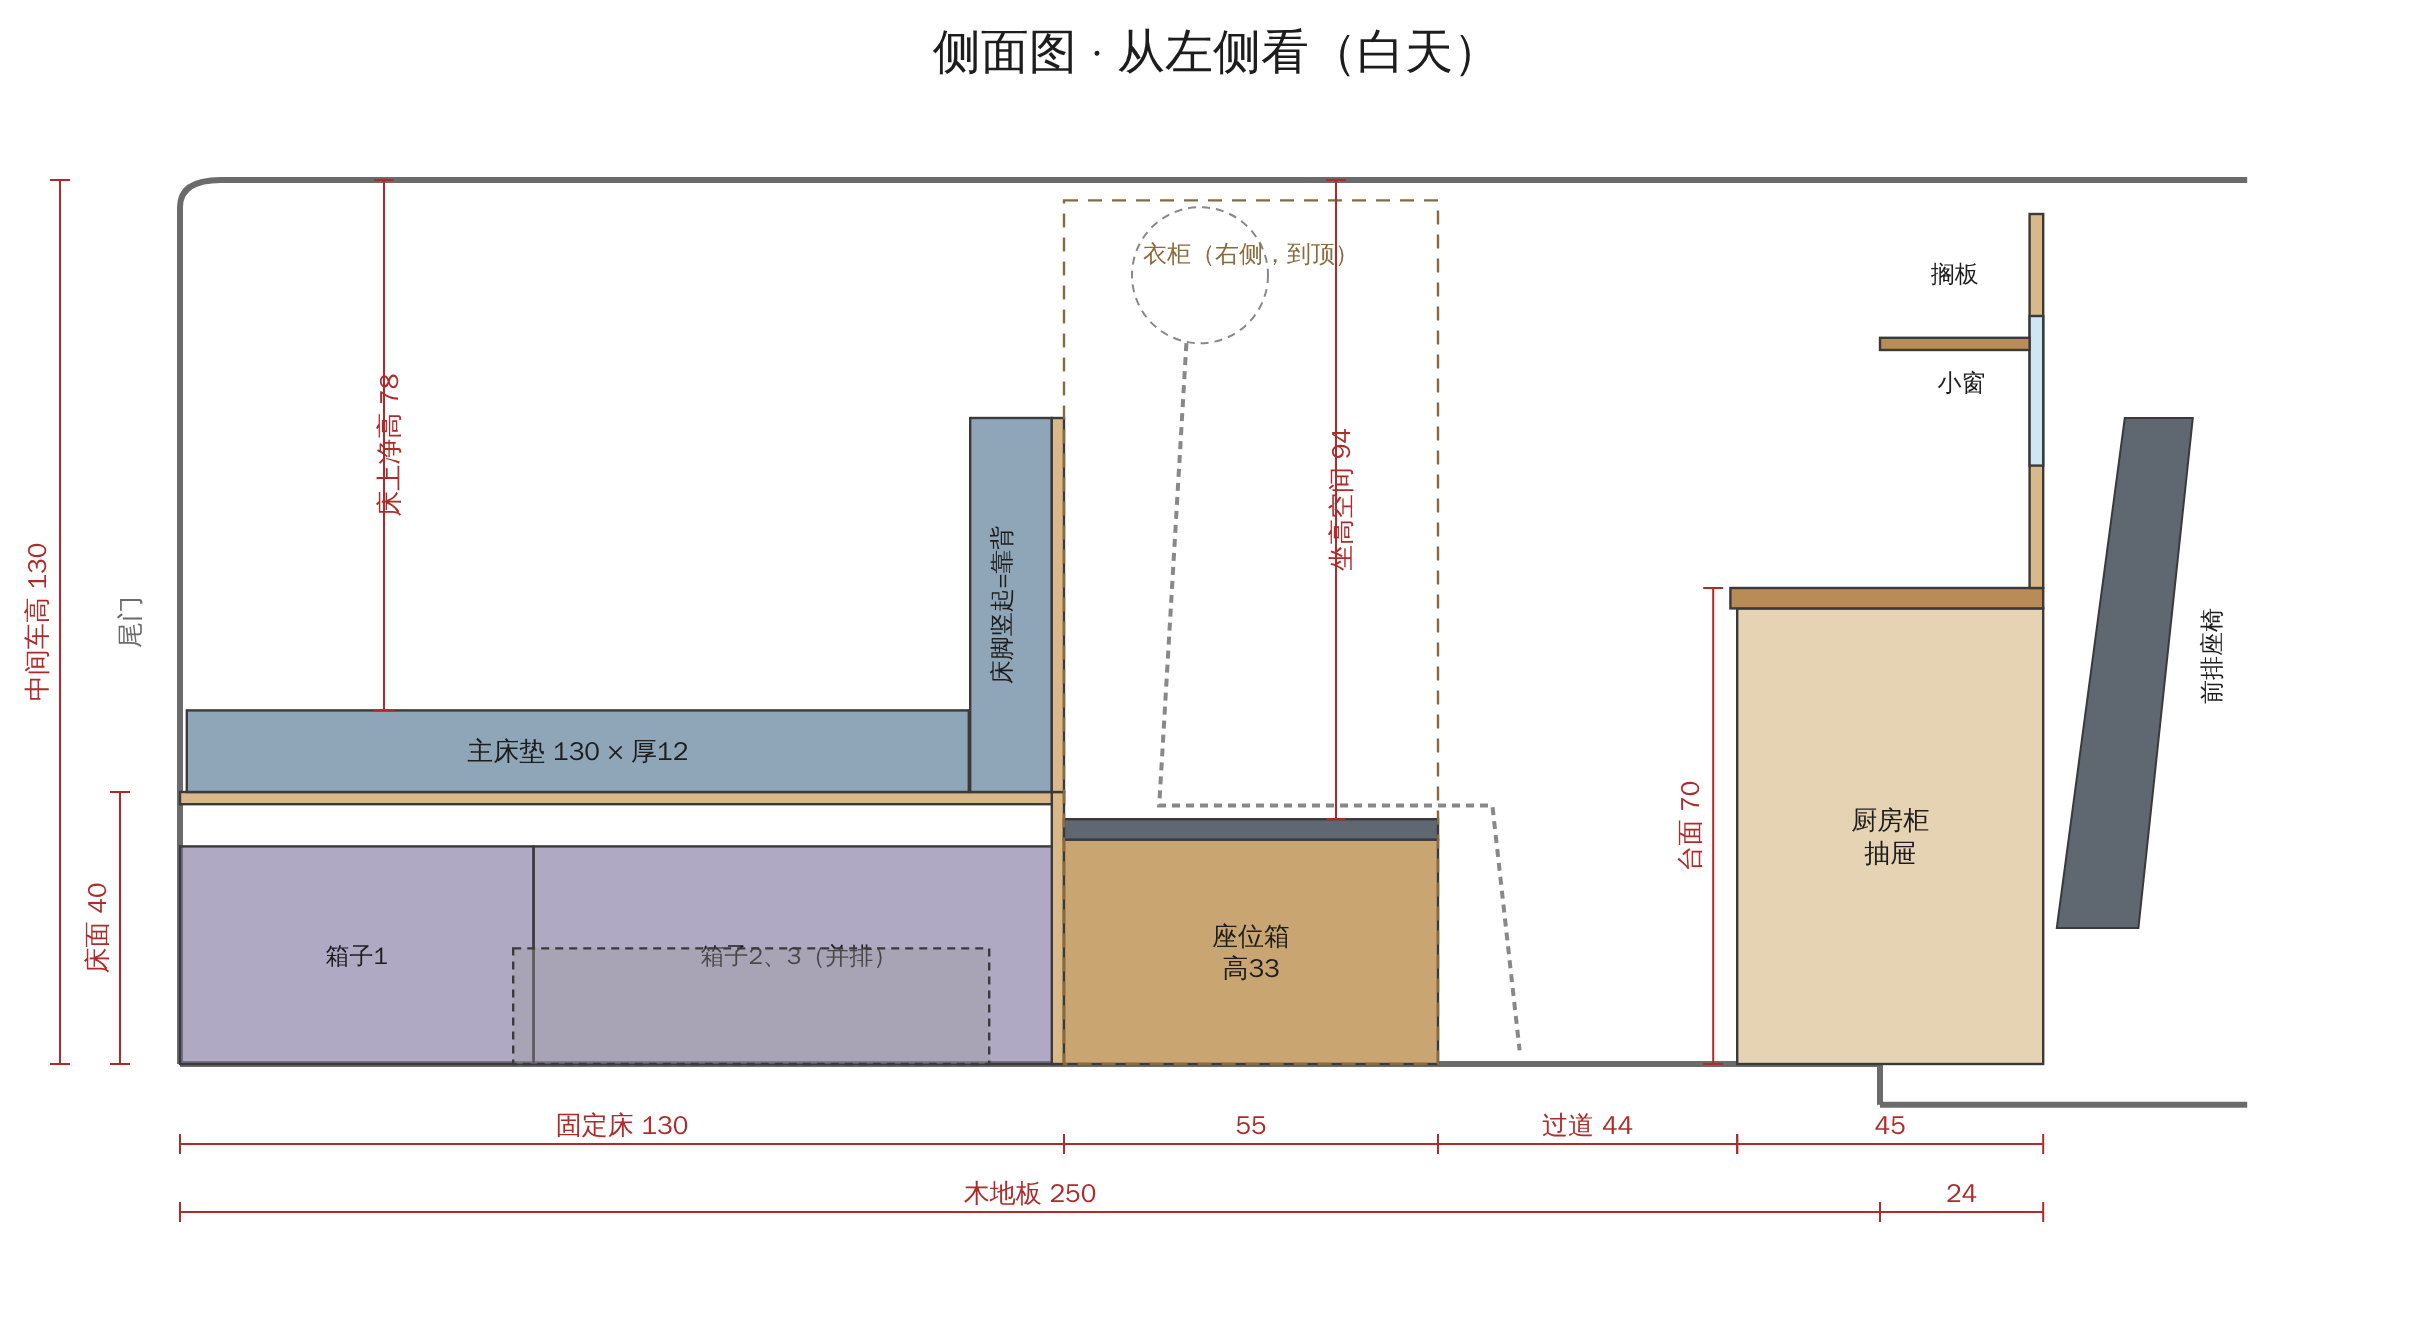
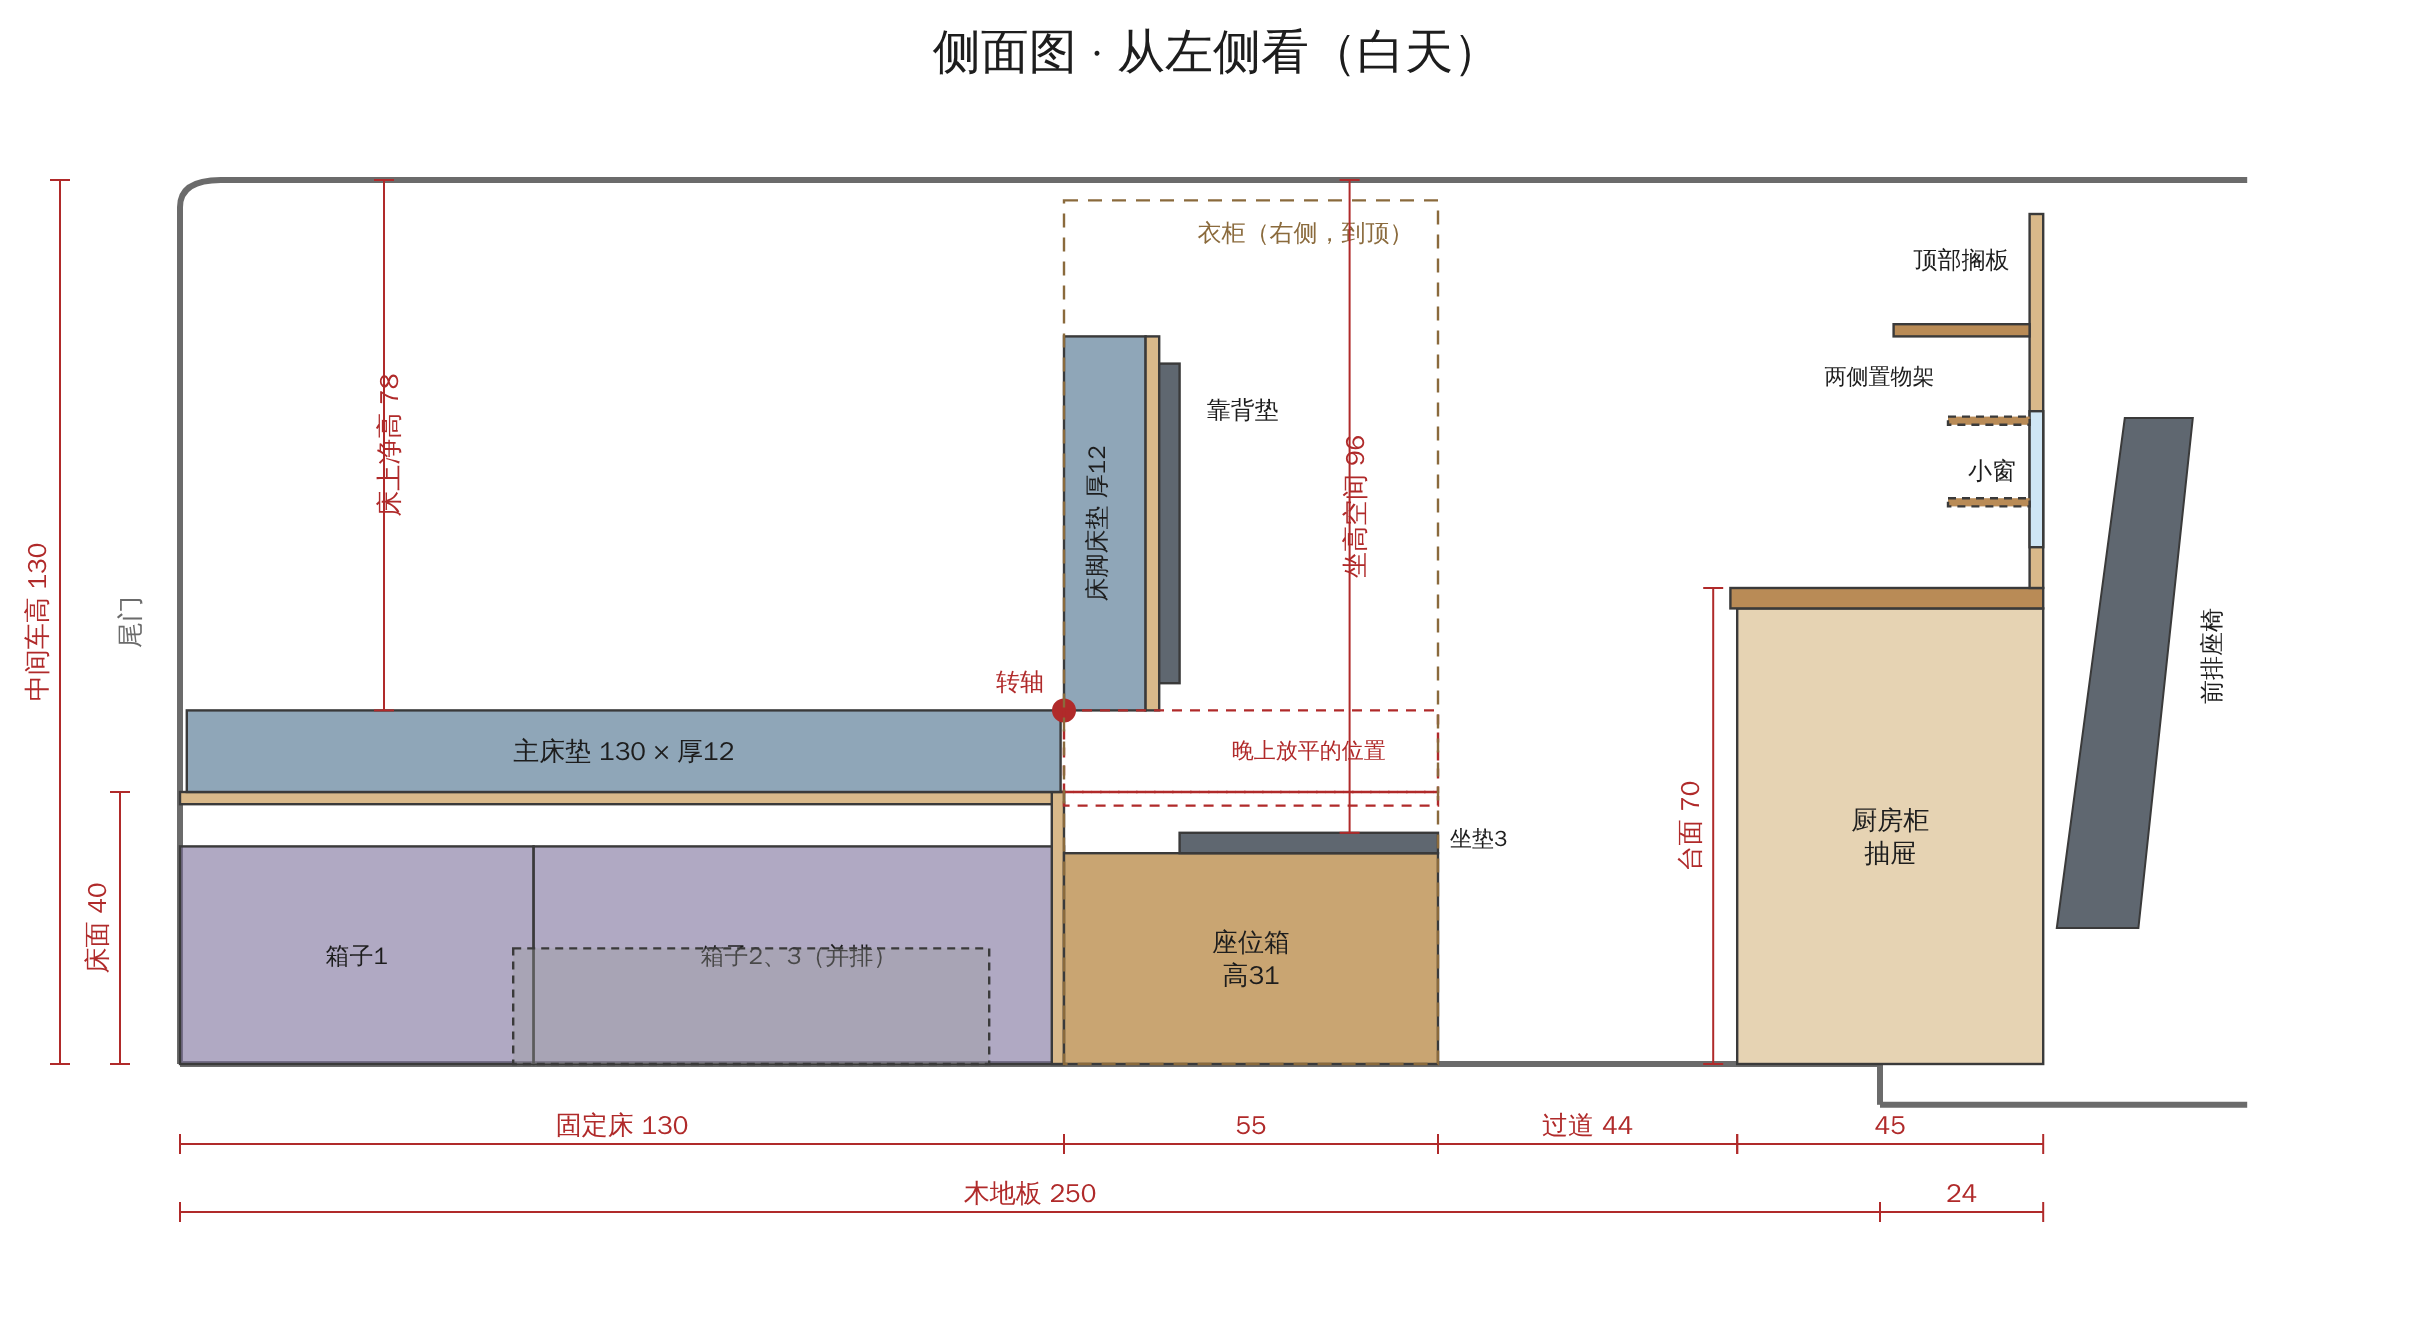
Correct foot-section fold geometry; add cab window, side racks, seat pad
Claude-Session: https://claude.ai/code/session_01WPwyTGQdLTwCJaMXsiybPN

diff --git a/drawings/draw.py b/drawings/draw.py
@@ -26,7 +26,9 @@ MAT = 12       # mattress thickness
 FIX = 130      # fixed bed length
 FOOT = 55      # folding foot section
 BED_END = FIX + FOOT          # 185
-SEAT_H = 33    # seat box height
+SEAT_H = 31    # seat box height (plus 3 cm fixed pad = 34)
+PAD = 3
+UP = MAT + 2 + PAD   # depth taken by the upright foot section: mattress + board + back pad
 ADULT_W = 114  # adult bed / seat width (left)
 WARD_W = W - ADULT_W          # 40
 KIT_D = 45     # kitchen depth
@@ -142,7 +144,7 @@ def plan(mode):
     # mattresses
     if mode == "under":
         o.append(box(0, FIX, 40, BED_END, C["toilet"], ["马桶", "高≤32"], 13))
-        o.append(box(40, FIX, ADULT_W, BED_END, C["ply2"], ["座位箱内部", "74 × 55 × 高30"], 14))
+        o.append(box(40, FIX, ADULT_W, BED_END, C["ply2"], ["座位箱内部", "74 × 55 × 高29"], 14))
         o.append(mtext(X(12), Y(125), ["侧槽"], 11))
         o.append(mtext(X(W - 12), Y(125), ["侧槽"], 11))
     elif mode == "night":
@@ -155,14 +157,14 @@ def plan(mode):
         o.append(box(ADULT_W / 2 + 0.5, FIX + 1, ADULT_W - 1, BED_END - 1, C["mat"], ["床脚右半"], 12,
                      extra='fill-opacity="0.80"'))
     else:
-        o.append(box(2, 2, ADULT_W - 1, FIX - 14, C["mat"], ["大人床垫（不用收）", "114 × 130"], 15,
+        o.append(box(2, 2, ADULT_W - 1, FIX - 1, C["mat"], ["大人床垫（不用收）", "114 × 130"], 15,
                      extra='fill-opacity="0.80"'))
         o.append(box(ADULT_W + 1, 2, W - 2, FIX - 1, C["mat2"], ["小珵", "40×130"], 13,
                      extra='fill-opacity="0.85"'))
-        o.append(box(0, FIX - 13, ADULT_W, FIX, C["seat"], None))
-        o.append(text(X(ADULT_W / 2), Y(FIX - 6.5) + 4, "床脚竖起 = 靠背", 12, fill="#ffffff"))
-        o.append(box(0, FIX, 40, BED_END, C["toilet"], ["马桶", "（掀盖）"], 13))
-        o.append(box(40, FIX, ADULT_W, BED_END, C["ply2"], ["座位箱 高33", "74 × 55"], 14))
+        o.append(box(0, FIX, ADULT_W, FIX + UP, C["seat"], None))
+        o.append(text(X(ADULT_W / 2), Y(FIX + UP / 2) + 4, "床脚段竖起 = 靠背（占17）", 12, fill="#ffffff"))
+        o.append(box(0, FIX + UP, 40, BED_END, C["toilet"], ["马桶", "（掀盖）"], 13))
+        o.append(box(40, FIX + UP, ADULT_W, BED_END, C["ply2"], ["座位 高34", "宽74 × 深38"], 14))
     # wardrobe
     o.append(box(ADULT_W, FIX, W, BED_END, C["ward"], ["衣柜", "40×55", "到顶"], 13, sw=2))
     # aisle
@@ -246,30 +248,38 @@ def side():
     o.append(box(0, BED_H - 1.8, FIX, BED_H, C["ply"]))
     o.append(box(FIX - 1.8, 0, FIX, BED_H, C["ply"]))
     # mattress
-    o.append(box(1, BED_H, FIX - 14, BED_H + MAT, C["mat"], ["主床垫 130 × 厚12"], 13))
-    # foot panel upright
-    o.append(box(FIX - 13.8, BED_H, FIX - 1.8, BED_H + FOOT, C["mat"], None))
-    o.append(box(FIX - 1.8, BED_H, FIX, BED_H + FOOT, C["ply"]))
-    o.append(text(X(FIX - 8), Z(BED_H + FOOT / 2), "床脚竖起=靠背", 12, rot=-90))
+    o.append(box(1, BED_H, FIX - 0.5, BED_H + MAT, C["mat"], ["主床垫 130 × 厚12"], 13))
+    # foot section upright: pivot at mattress-top level, so it clears the main mattress
+    zt = BED_H + MAT
+    o.append(box(FIX, zt, FIX + MAT, zt + FOOT, C["mat"], None))
+    o.append(text(X(FIX + MAT / 2), Z(zt + FOOT / 2), "床脚床垫 厚12", 12, rot=-90))
+    o.append(box(FIX + MAT, zt, FIX + MAT + 2, zt + FOOT, C["ply"]))
+    o.append(box(FIX + MAT + 2, zt + 4, FIX + UP, zt + FOOT - 4, C["seat"]))
+    o.append(f'<circle cx="{X(FIX):.1f}" cy="{Z(zt):.1f}" r="6" fill="#b02a2a"/>')
+    o.append(text(X(FIX) - 10, Z(zt) - 10, "转轴", 12, anchor="end", fill=C["dim"]))
+    o.append(text(X(FIX + UP + 4), Z(zt + FOOT - 12), "靠背垫", 12, anchor="start"))
+    # night position, dashed
+    o.append(box(FIX, BED_H - 2, BED_END, BED_H, "none", None, extra='stroke-dasharray="5 4"', stroke="#b02a2a"))
+    o.append(box(FIX, BED_H, BED_END, zt, "none", None, extra='stroke-dasharray="5 4"', stroke="#b02a2a"))
+    o.append(text(X(FIX + 36), Z(BED_H + 5), "晚上放平的位置", 11, fill=C["dim"]))
     # seat box
-    o.append(box(FIX, 0, BED_END, SEAT_H, C["ply2"], ["座位箱", "高33"], 13))
-    o.append(box(FIX, SEAT_H, BED_END, SEAT_H + 3, C["seat"]))
-    # person outline (sitting)
-    hx, hz = X(FIX + 20), Z(SEAT_H + 3 + 80)
-    o.append(f'<circle cx="{hx:.1f}" cy="{hz:.1f}" r="{10*S:.1f}" fill="none" stroke="#888" stroke-dasharray="4 3"/>')
-    o.append(f'<path d="M{X(FIX+18):.1f},{Z(SEAT_H+3+70):.1f} L{X(FIX+14):.1f},{Z(SEAT_H+5):.1f} L{X(BED_END+8):.1f},{Z(SEAT_H+5):.1f} '
-             f'L{X(BED_END+12):.1f},{Z(2):.1f}" fill="none" stroke="#888" stroke-dasharray="4 3" stroke-width="2"/>')
+    o.append(box(FIX, 0, BED_END, SEAT_H, C["ply2"], ["座位箱", "高31"], 13))
+    o.append(box(FIX + UP, SEAT_H, BED_END, SEAT_H + PAD, C["seat"]))
+    o.append(text(X(BED_END) + 6, Z(SEAT_H + 1), "坐垫3", 11, anchor="start"))
     # wardrobe (behind, right side) dashed
     o.append(box(FIX, 0, BED_END, H_SIDE, "none", None, extra='stroke-dasharray="7 5"', stroke="#8a6a3c"))
-    o.append(text(X(FIX + FOOT / 2), Z(H_SIDE - 9), "衣柜（右侧，到顶）", 12, fill="#8a6a3c"))
+    o.append(text(X(FIX + FOOT / 2 + 8), Z(H_SIDE - 6), "衣柜（右侧，到顶）", 12, fill="#8a6a3c"))
     # kitchen
     o.append(box(KIT_Y, -6 if False else 0, SEAT, BENCH_H - 3, C["kit"], ["厨房柜", "抽屉"], 13))
     o.append(box(KIT_Y - 1, BENCH_H - 3, SEAT, BENCH_H, C["top"]))
     o.append(box(SEAT - 2, BENCH_H, SEAT, H_SIDE - 2, C["ply"], None))
-    o.append(box(SEAT - 2, BENCH_H + 18, SEAT, BENCH_H + 40, "#cfe6f5", None))
-    o.append(text(X(SEAT - 12), Z(BENCH_H + 29), "小窗", 12))
-    o.append(box(SEAT - 24, H_SIDE - 22, SEAT - 2, H_SIDE - 20.2, C["top"]))
-    o.append(text(X(SEAT - 13), Z(H_SIDE - 12), "搁板", 12))
+    o.append(box(SEAT - 2, BENCH_H + 6, SEAT, BENCH_H + 26, "#cfe6f5", None))
+    o.append(text(X(SEAT - 4), Z(BENCH_H + 16), "小窗", 12, anchor="end"))
+    for zz in (BENCH_H + 12, BENCH_H + 24):
+        o.append(box(SEAT - 14, zz, SEAT - 2, zz + 1.2, C["top"], None, extra='stroke-dasharray="4 3"'))
+    o.append(text(X(SEAT - 16), Z(BENCH_H + 30), "两侧置物架", 11, anchor="end"))
+    o.append(box(SEAT - 22, H_SIDE - 20, SEAT - 2, H_SIDE - 18.2, C["top"]))
+    o.append(text(X(SEAT - 12), Z(H_SIDE - 10), "顶部搁板", 12))
     # front seat
     o.append(f'<path d="M{X(SEAT+2):.1f},{Z(20):.1f} L{X(SEAT+12):.1f},{Z(95):.1f} L{X(SEAT+22):.1f},{Z(95):.1f} '
              f'L{X(SEAT+14):.1f},{Z(20):.1f} Z" fill="{C["seat"]}" stroke="{C["line"]}"/>')
@@ -285,7 +295,7 @@ def side():
     xl = X(0) - 30
     o.append(dim_v(xl, Z(BED_H), Z(0), f"床面 {BED_H}"))
     o.append(dim_v(xl - 30, Z(H_MID), Z(0), f"中间车高 {H_MID}"))
-    o.append(dim_v(X(FIX + 40), Z(H_MID), Z(SEAT_H + 3), f"坐高空间 {H_MID-SEAT_H-3}", side=1))
+    o.append(dim_v(X(FIX + 42), Z(H_MID), Z(SEAT_H + PAD), f"坐高空间 {H_MID-SEAT_H-PAD}", side=1))
     o.append(dim_v(X(KIT_Y) - 12, Z(BENCH_H), Z(0), f"台面 {BENCH_H}"))
     o.append(dim_v(X(30), Z(H_MID), Z(BED_H + MAT), f"床上净高 {H_MID-BED_H-MAT}", side=1))
     o.append(text(X(-6), Z(H_MID / 2), "尾门", 13, rot=-90, fill=C["wall"]))
@@ -343,10 +353,10 @@ def iso(mode):
     o.append(poly([P(W, 0, 0), P(W, BED_END, 0), P(W, BED_END, H_SIDE), P(W, 0, H_SIDE)], "#f3f1ec", 0.9, "#aaa"))
     o.append(poly([P(0, SEAT, 0), P(W + STEP, SEAT, 0), P(W + STEP, SEAT, H_SIDE), P(0, SEAT, H_SIDE)],
                   "#f3f1ec", 0.9, "#aaa"))
-    o.append(poly([P(52, SEAT, BENCH_H + 16), P(104, SEAT, BENCH_H + 16), P(104, SEAT, BENCH_H + 36),
-                   P(52, SEAT, BENCH_H + 36)], "#cfe6f5", 1, "#777"))
-    a, b = P(78, SEAT, BENCH_H + 26)
-    o.append(text(a, b + 4, "小窗", 12))
+    o.append(poly([P(52, SEAT, BENCH_H + 6), P(104, SEAT, BENCH_H + 6), P(104, SEAT, BENCH_H + 26),
+                   P(52, SEAT, BENCH_H + 26)], "#cfe6f5", 1, "#555"))
+    a, b = P(78, SEAT, BENCH_H + 16)
+    o.append(text(a, b + 4, "小窗", 13, bold=True))
     o.append(poly([P(W, 15, 70), P(W, 120, 70), P(W, 120, 113), P(W, 15, 113)], "#dcecf6", 1, "#999"))
 
     # --- kitchen (farthest)
@@ -356,7 +366,14 @@ def iso(mode):
     for i in range(3):
         face_y(4, 105, KIT_Y, 4 + i * 21, 23 + i * 21, "#f1e3c8", "抽屉" if i == 1 else None)
     box(0, KIT_Y - 1, BENCH_H - 3, W + STEP, SEAT, BENCH_H, C["top"], "炉子台面")
-    box(0, SEAT - 22, H_SIDE - 22, W + STEP, SEAT, H_SIDE - 20, C["top"], "搁板")
+    for (rx0, rx1) in ((W + STEP - 62, W + STEP), (0, 48)):
+        for zz in (BENCH_H + 24, BENCH_H + 12):
+            box(rx0, SEAT - 12, zz, rx1, SEAT, zz + 1.5, C["top"])
+    a, b = P(24, SEAT - 12, BENCH_H + 19)
+    o.append(text(a, b, "置物架", 12, bold=True))
+    a, b = P(W + STEP - 31, SEAT - 12, BENCH_H + 19)
+    o.append(text(a, b, "置物架", 12, bold=True))
+    box(0, SEAT - 20, H_SIDE - 20, W + STEP, SEAT, H_SIDE - 18, C["top"], "顶部搁板")
     box(-40, SEAT - 43, BENCH_H - 3, 0, SEAT - 2, BENCH_H - 1, C["top"], "翻板桌", 0.8, 12)
     # --- sink leg
     box(SINK_X0, BED_END, 0, W + STEP, KIT_Y, BENCH_H - 3, C["kit"])
@@ -370,8 +387,14 @@ def iso(mode):
     box(ADULT_W, FIX, 0, W, BED_END, H_SIDE, C["ward"], "衣柜")
     face_y(ADULT_W + 3, W - 3, BED_END, 4, H_SIDE - 4, shade(C["ward"], 1.08), "衣柜门")
     # --- seat boxes / foot section
-    box(40, FIX, 0, ADULT_W, BED_END, SEAT_H, C["ply2"], "座位箱（坐两人）" if mode == "day" else None)
-    box(0, FIX, 0, 40, BED_END, SEAT_H, C["toilet"], "马桶" if mode == "day" else None)
+    box(40, FIX, 0, ADULT_W, BED_END, SEAT_H, C["ply2"])
+    box(40, FIX + (UP if mode == "day" else 0), SEAT_H, ADULT_W, BED_END, SEAT_H + PAD, C["seat"])
+    box(0, FIX, 0, 40, BED_END, SEAT_H + PAD, C["toilet"])
+    if mode == "day":
+        a, b = P(77, FIX + UP + 19, SEAT_H + PAD)
+        o.append(text(a, b + 5, "座位（坐两人）", 13, bold=True, fill="#ffffff"))
+        a, b = P(20, FIX + UP + 19, SEAT_H + PAD)
+        o.append(text(a, b + 5, "马桶", 13, bold=True))
     if mode == "night":
         half = ADULT_W / 2
         box(half + 0.5, FIX, BED_H - 2, ADULT_W, BED_END, BED_H, C["ply"])
@@ -394,10 +417,13 @@ def iso(mode):
     box(0, 0, BED_H - 2, W, FIX, BED_H, C["ply"])
     box(ADULT_W + 1, 1, BED_H, W - 1, FIX - 1, BED_H + 6, C["mat2"], "小珵 40×130")
     if mode == "day":
-        box(0, FIX - 13, BED_H, ADULT_W, FIX - 1, BED_H + FOOT, C["mat"])
-        a, b = P(ADULT_W / 2, FIX - 13, BED_H + FOOT / 2 + 8)
-        o.append(text(a, b, "床脚竖起 = 靠背", 13, bold=True))
-        box(1, 1, BED_H, ADULT_W - 1, FIX - 14, BED_H + MAT, C["mat"], "大人床 114×130（不用收）")
+        zt = BED_H + MAT
+        box(0, FIX + MAT + 2, zt + 4, ADULT_W, FIX + UP, zt + FOOT - 4, C["seat"], op=0.45)
+        box(0, FIX + MAT, zt, ADULT_W, FIX + MAT + 2, zt + FOOT, C["ply"], op=0.45)
+        box(0, FIX, zt, ADULT_W, FIX + MAT, zt + FOOT, C["mat"], op=0.45)
+        a, b = P(ADULT_W / 2, FIX, zt + FOOT / 2 + 6)
+        o.append(text(a, b, "床脚床垫竖起（背面是靠背）", 13, bold=True))
+        box(1, 1, BED_H, ADULT_W - 1, FIX - 0.5, BED_H + MAT, C["mat"], "大人床 114×130（不用收）")
     else:
         box(1, 1, BED_H, ADULT_W - 1, FIX - 1, BED_H + MAT, C["mat"], "大人床 114×185")
     # --- notes
@@ -406,7 +432,7 @@ def iso(mode):
     a, b = P(-12, SEAT - 110, 0)
     o.append(text(a - 10, b + 24, "左门（进出）", 14, anchor="end", bold=True, fill="#2e7d32"))
     o.append(text(Wpx / 2, Hpx - 18,
-                  "左侧墙和车顶未画出，以便看清内部 · 尺寸单位厘米 · 箱子按 78×52×32 估算",
+                  "左侧墙和车顶未画出；竖起的床脚段画成半透明，能看到后面的座位 · 单位厘米 · 箱子按 78×52×32 估算",
                   13, fill="#666"))
     o.append("</svg>")
     return "\n".join(o)
